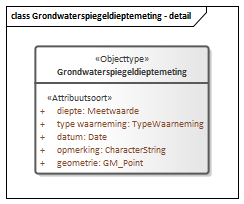
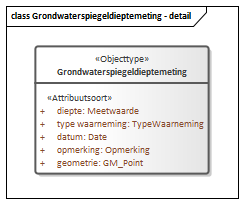
Conceptualmodel-ModelgrondwaterspiegeldiepteWDM-conceptueel-1.0-1-20200721-20210114-101507

Changed region(s): [[0.4303, 0.7059, 0.6885, 0.7647]]

diff --git a/data/WDM-cat.msword.html b/data/WDM-cat.msword.html
@@ -15,7 +15,7 @@
    <body>
       <p>Conceptual model/Model grondwaterspiegeldiepte (WDM) - conceptueel/20200721</p>
       <p>Imvertor: 1.63.0</p>
-      <p>Model release: Conceptualmodel-ModelgrondwaterspiegeldiepteWDM-conceptueel-1.0-1-20200721-20210114-100355</p>
+      <p>Model release: Conceptualmodel-ModelgrondwaterspiegeldiepteWDM-conceptueel-1.0-1-20200721-20210114-101507</p>
       <hr>
       <section>
          <h1>Artikel 1 Definitie van registratieobject, entiteiten en attributen</h1>
@@ -50,7 +50,7 @@
          <section>
             <h2>Het domeinmodel</h2>
             <section id="">
-               <div class="imageinfo overview"><img src="Images/EAID_32DF32C8_5066_4b21_A5D5_EE7F2DB49F77.png" usemap="#imagemap-EAID_32DF32C8_5066_4b21_A5D5_EE7F2DB49F77" alt="Diagram "><map name="imagemap-EAID_32DF32C8_5066_4b21_A5D5_EE7F2DB49F77"><area shape="rect" alt="Domein" coords="575,540,729,616" href="#graph_EAID_E3897485_3C5F_43f3_9182_9E6E754D984F"><area shape="rect" alt="Gridcel" coords="453,417,575,456" href="#graph_EAID_D0A6330A_6492_45f1_980C_0E417377CA37"><area shape="rect" alt="Grondwaterspiegeldiepte" coords="35,525,192,614" href="#graph_EAID_F09743D7_6B95_4243_A403_BEC64D04F7FF"><area shape="rect" alt="Grondwaterspiegeldieptegrid" coords="424,318,605,353" href="#graph_EAID_330757FF_F73A_4c69_AFB0_B255971A3DF7"><area shape="rect" alt="Grondwatertrap" coords="35,629,248,718" href="#graph_EAID_58AEC090_D83F_4707_B418_3D9C79CC58CE"><area shape="rect" alt="Bereik" coords="276,525,453,670" href="#graph_EAID_C0D21A75_9A6A_446d_8157_B61183B58A48"><area shape="rect" alt="Grondwaterspiegeldieptemeting" coords="106,314,301,442" href="#graph_EAID_BEAD8A51_C8E2_4fb6_8DF2_52ED4E1FB678"><area shape="rect" alt="Registratieobject" coords="323,46,487,174" href="#graph_EAID_3A7AEE32_4ECA_4822_9009_121A0679605E"><area shape="rect" alt="Model grondwaterspiegeldiepte" coords="106,215,705,256" href="#graph_EAID_FCE5BAFD_33CD_4c9b_878F_04A61B1ED0BE"><area shape="rect" alt="CV_Coverage" coords="736,295,836,375" href="#graph_EAID_EDBFC5D1_0314_4d8e_A1FD_91D56A01B776"></map><p><b>Model grondwaterspiegeldiepte (WDM)</b></p>
+               <div class="imageinfo overview"><img src="Images/EAID_32DF32C8_5066_4b21_A5D5_EE7F2DB49F77.png" usemap="#imagemap-EAID_32DF32C8_5066_4b21_A5D5_EE7F2DB49F77" alt="Diagram "><map name="imagemap-EAID_32DF32C8_5066_4b21_A5D5_EE7F2DB49F77"><area shape="rect" alt="Domein" coords="575,540,729,616" href="#graph_EAID_E3897485_3C5F_43f3_9182_9E6E754D984F"><area shape="rect" alt="Gridcel" coords="453,417,575,456" href="#graph_EAID_D0A6330A_6492_45f1_980C_0E417377CA37"><area shape="rect" alt="Grondwaterspiegeldiepte" coords="35,525,192,614" href="#graph_EAID_F09743D7_6B95_4243_A403_BEC64D04F7FF"><area shape="rect" alt="Grondwaterspiegeldieptegrid" coords="424,318,605,353" href="#graph_EAID_330757FF_F73A_4c69_AFB0_B255971A3DF7"><area shape="rect" alt="Grondwatertrap" coords="35,629,248,718" href="#graph_EAID_58AEC090_D83F_4707_B418_3D9C79CC58CE"><area shape="rect" alt="Bereik" coords="276,525,453,670" href="#graph_EAID_C0D21A75_9A6A_446d_8157_B61183B58A48"><area shape="rect" alt="Grondwaterspiegeldieptemeting" coords="106,318,301,446" href="#graph_EAID_BEAD8A51_C8E2_4fb6_8DF2_52ED4E1FB678"><area shape="rect" alt="Registratieobject" coords="323,46,487,174" href="#graph_EAID_3A7AEE32_4ECA_4822_9009_121A0679605E"><area shape="rect" alt="Model grondwaterspiegeldiepte" coords="106,215,705,256" href="#graph_EAID_FCE5BAFD_33CD_4c9b_878F_04A61B1ED0BE"><area shape="rect" alt="CV_Coverage" coords="736,295,836,375" href="#graph_EAID_EDBFC5D1_0314_4d8e_A1FD_91D56A01B776"></map><p><b>Model grondwaterspiegeldiepte (WDM)</b></p>
                </div>
             </section>
          </section>
@@ -340,7 +340,7 @@
                            </tr>
                            <tr>
                               <th>&nbsp;&nbsp;Naam</th>
-                              <td>CHARACTERSTRING</td>
+                              <td>Opmerking</td>
                            </tr>
                         </tbody>
                      </table>
@@ -550,7 +550,7 @@
                            </tr>
                         </tbody>
                      </table>
-                     </section><a class="anchor" id="detail_d15815e3175"></a><section id="detail_d15815e3175">
+                     </section><a class="anchor" id="detail_d16084e3335"></a><section id="detail_d16084e3335">
                      <h4>  GLG</h4>
                      
                      
@@ -598,7 +598,7 @@
                            </tr>
                         </tbody>
                      </table>
-                     </section><a class="anchor" id="detail_d15815e3341"></a><section id="detail_d15815e3341">
+                     </section><a class="anchor" id="detail_d16084e3501"></a><section id="detail_d16084e3501">
                      <h4>  GHG</h4>
                      
                      
@@ -646,7 +646,7 @@
                            </tr>
                         </tbody>
                      </table>
-                     </section><a class="anchor" id="detail_d15815e3507"></a><section id="detail_d15815e3507">
+                     </section><a class="anchor" id="detail_d16084e3667"></a><section id="detail_d16084e3667">
                      <h4>  GVG</h4>
                      
                      
@@ -694,7 +694,7 @@
                            </tr>
                         </tbody>
                      </table>
-                     </section><a class="anchor" id="detail_d15815e3673"></a><section id="detail_d15815e3673">
+                     </section><a class="anchor" id="detail_d16084e3833"></a><section id="detail_d16084e3833">
                      <h4>  Gt</h4>
                      
                      
@@ -1057,6 +1057,40 @@
       </section>
       <section>
          <h1>Artikel 2 Beschrijving van uitbreidbare waardelijsten    </h1>
+         <section id="detail_class_ModelGrondwaterspiegeldiepteWDM_Opmerking">
+            <h3>Enumeratie details  Opmerking</h3>
+            
+            <table style="width: 100%;" class="list">
+               <colgroup></colgroup>
+               <tbody>
+                  <tr>
+                     <td>
+                        
+                        <p>Lijst met standaardwaarden voor opmerking bij grondwaterspiegeldieptemeting.</p>
+                        </td>
+                  </tr>
+               </tbody>
+            </table>
+            
+            <table style="width: 100%;" class="list">
+               <colgroup style="width: 50%;"></colgroup>
+               <colgroup></colgroup>
+               <tbody>
+                  <tr>
+                     <th>Waarde</th>
+                     <th>Omschrijving</th>
+                  </tr>
+                  <tr>
+                     <td>droog</td>
+                     <td></td>
+                  </tr>
+                  <tr>
+                     <td>onder water</td>
+                     <td></td>
+                  </tr>
+               </tbody>
+            </table>
+            </section>
          <section id="detail_class_ModelGrondwaterspiegeldiepteWDM_TypeWaarneming">
             <h3>Enumeratie details  TypeWaarneming</h3>
             
